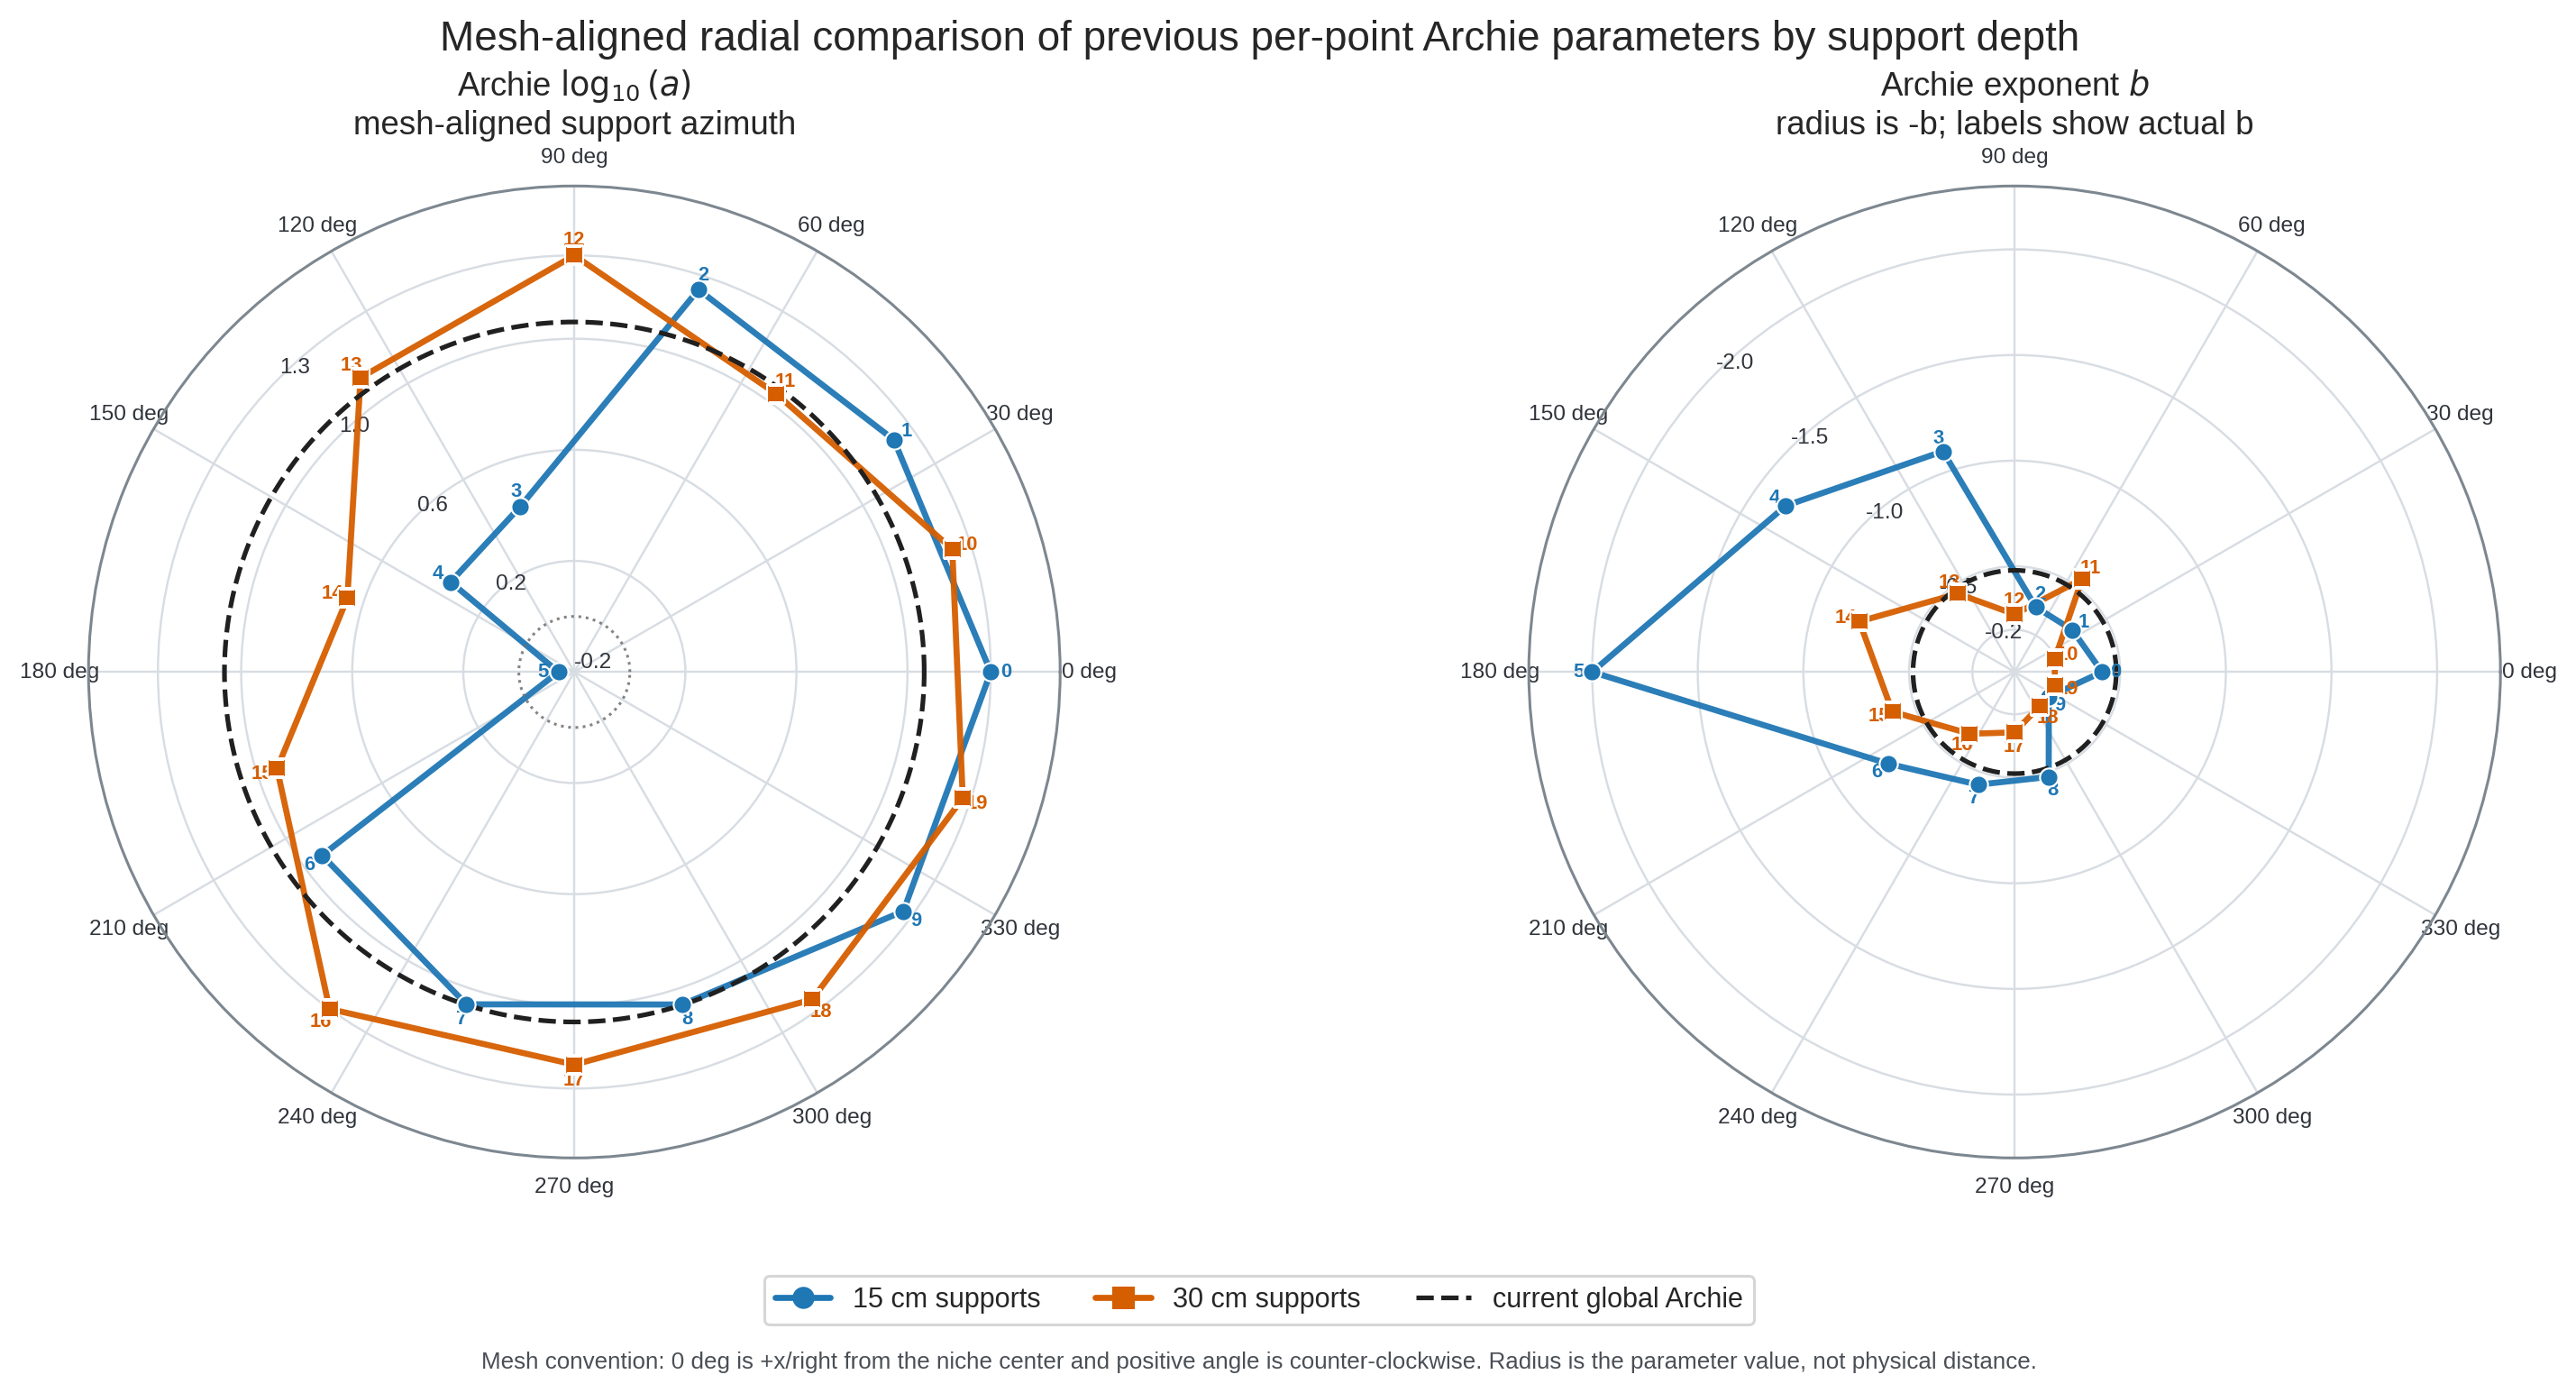
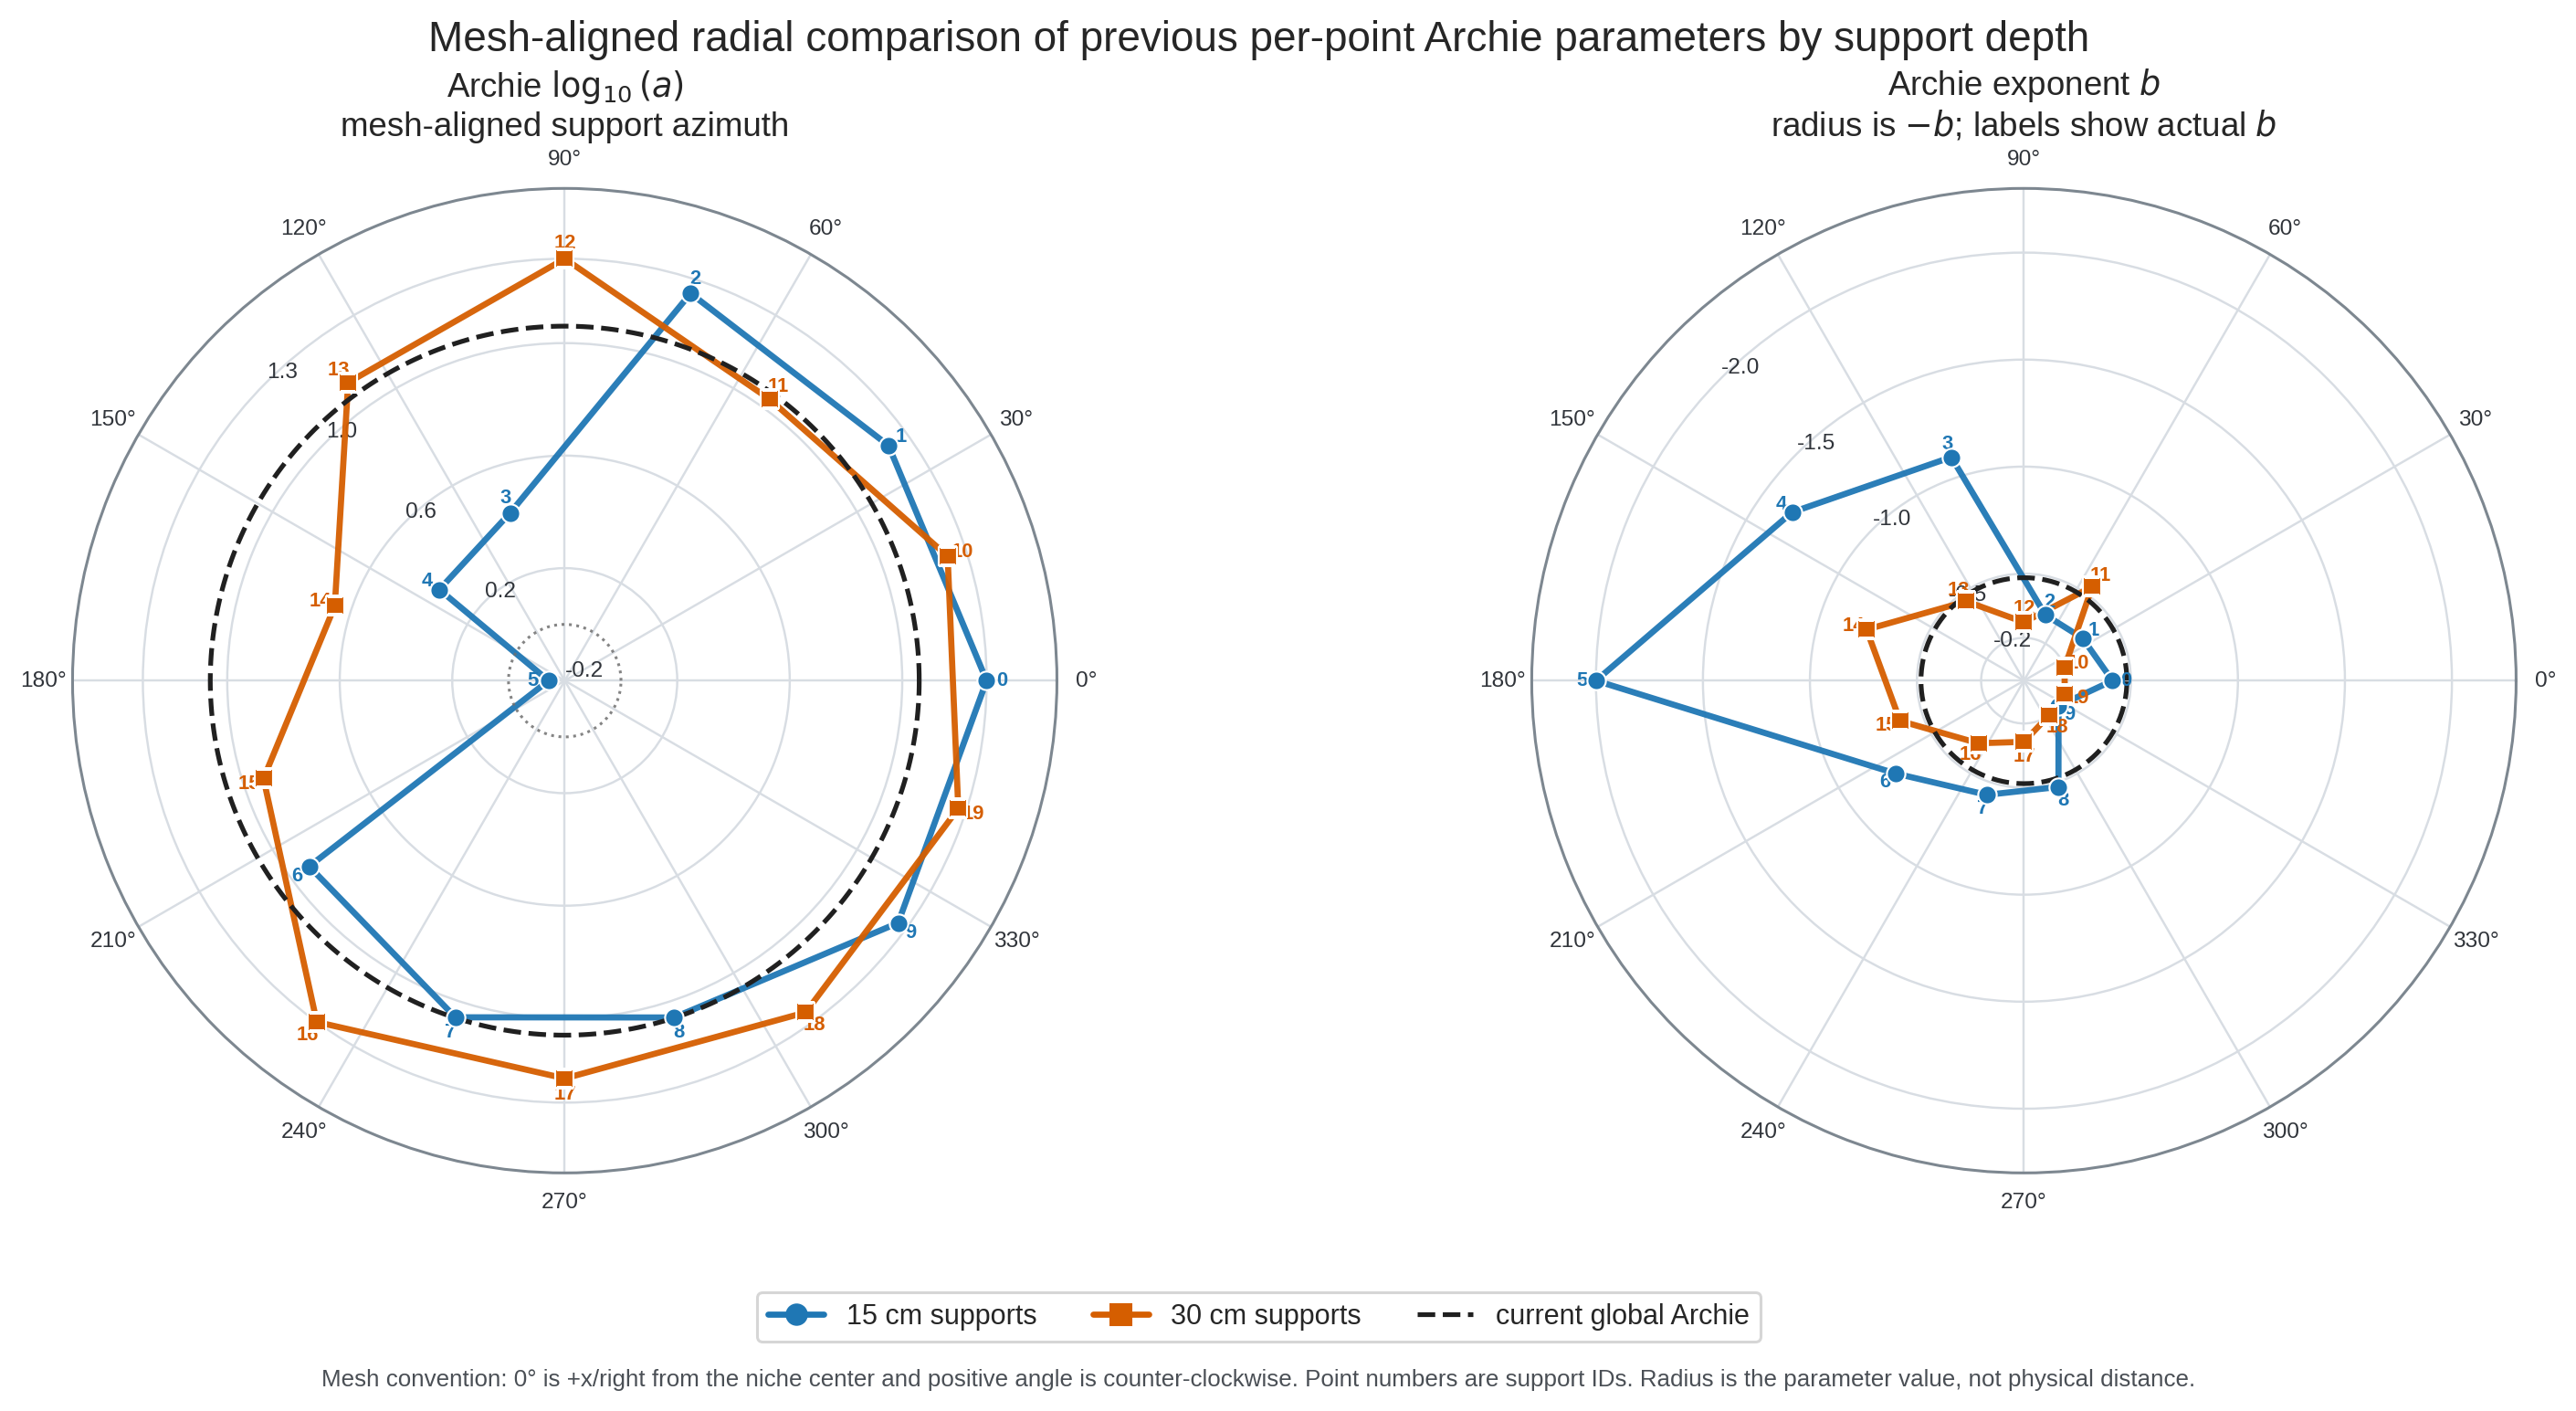
Align free t0 Archie report radial figure

diff --git a/damh_ert20_inversion_paper/reports/damh_ert20_t0_free_global_archie_run_report/RUN_SYNTHESIS_REPORT.md b/damh_ert20_inversion_paper/reports/damh_ert20_t0_free_global_archie_run_report/RUN_SYNTHESIS_REPORT.md
@@ -145,9 +145,9 @@ Rank 15 did not leave a likelihood-history file before the crash.
 
 The mesh-aligned radial Archie comparison is a key diagnostic artifact:
 
-- Numbered mesh support map: `pdf_report/figures/11_ert20_supports_numbered_on_mesh.png`
-- Figure: `pdf_report/figures/10_archie_radial_by_depth.png`
-- Values: `pdf_report/archie_radial_by_depth_values.csv`
+- Numbered mesh support map: `figures/11_ert20_supports_numbered_on_mesh.png`
+- Figure: `figures/10_archie_radial_by_depth.png`
+- Values: `archie_radial_by_depth_values.csv`
 
 The strongest departure from the current global Archie pair is localized rather than domain-wide.
 It is dominated by the shallower `15 cm` support trace, especially supports `3-5` in the previous